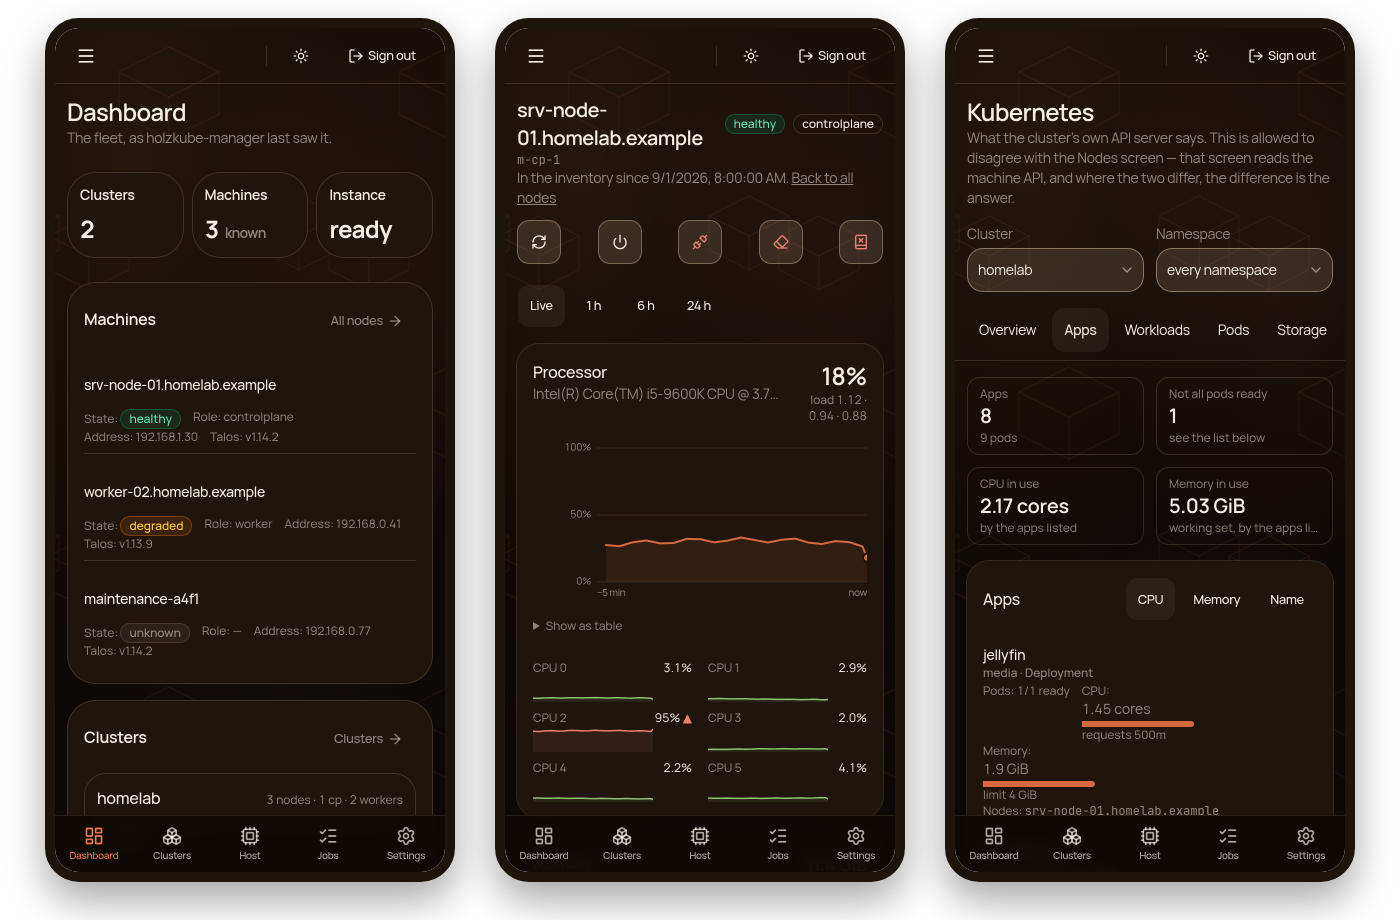
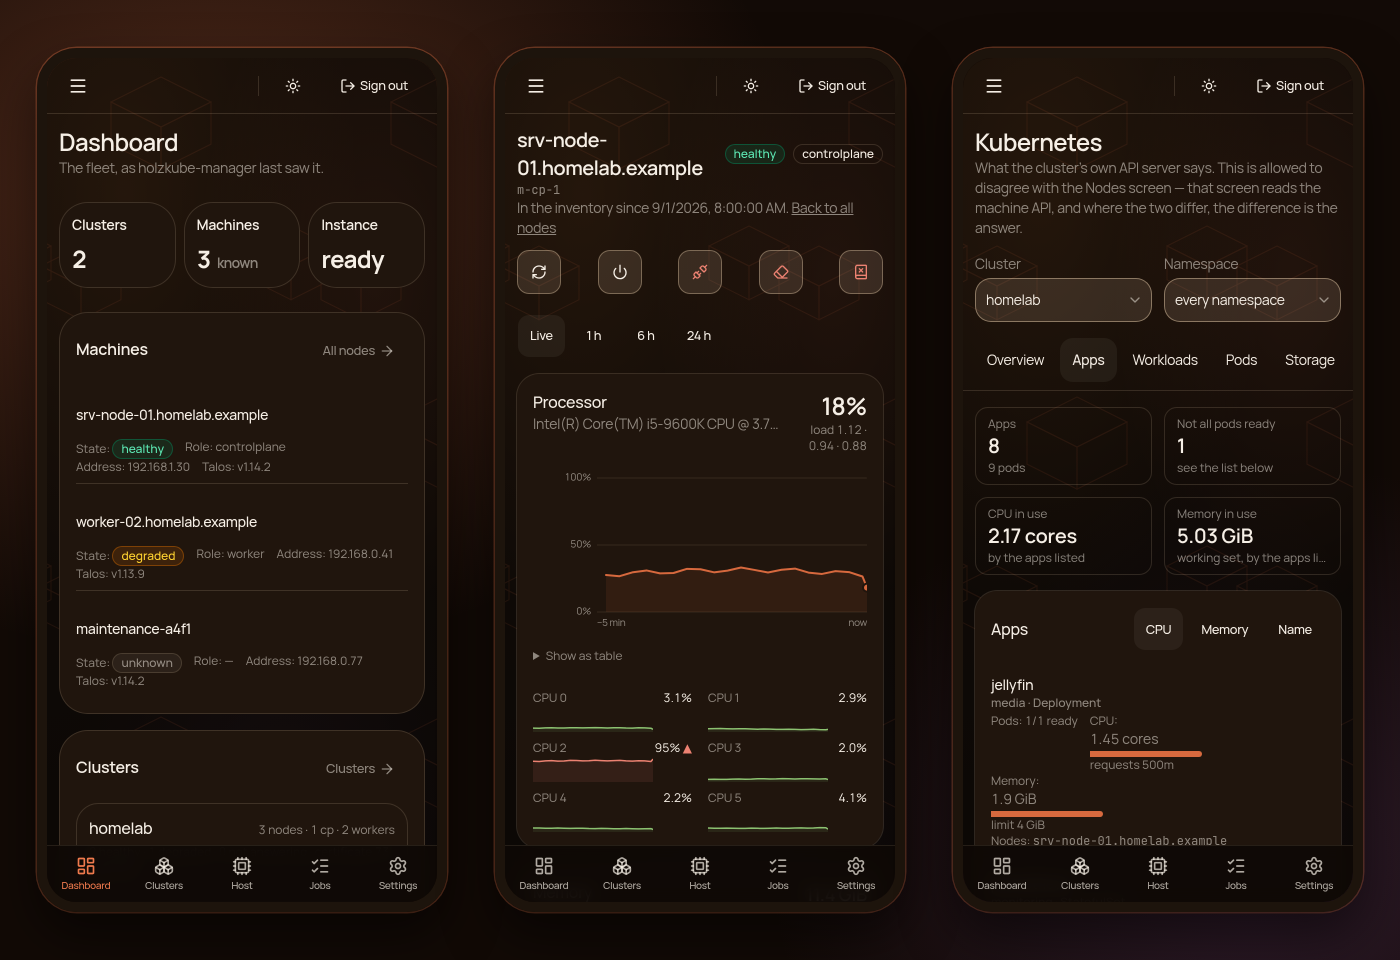
README: a showcase picture, fewer and better screenshots, a phone strip on the brand ground
The look-around keeps what matters: the dashboard on a desk and on a phone, a
node, the clusters, the wall, and the phone strip. The apps, app-detail,
kubernetes and host pictures are gone from README and script; their screens are
still described in the feature list and the guide.

Claude-Session: https://claude.ai/code/session_01NtRnCYXbriV4BjszEhUnec

diff --git a/README.md b/README.md
@@ -83,55 +83,33 @@ did.
 
 ## A look around
 
-**The 2026 shell.** On a desk or a tablet the navigation is an icon rail —
-Dashboard, Clusters, Host, Jobs, Settings — with every area as a labelled
-column beside it; on a phone those five are the bottom tab bar and the rest
-sit behind the menu. The dashboard shows the fleet as cards with one big
-number each: the clusters, the machines (and how many are down), and the
-instance's own state including the audit chain.
+![The dashboard on a desk and on a phone](docs/screenshots/showcase.png)
 
-![The dashboard: the fleet as cards](docs/screenshots/dashboard.png)
-
-**Apps.** What is installed on the cluster, heaviest first, and the detail of
-one: its pods, where they run, and what it used over the day.
-
-![Every app with its CPU and memory now](docs/screenshots/apps.png)
-
-![One app over the last 24 hours](docs/screenshots/app-detail.png)
+**Dashboard.** The fleet at a glance: the clusters, the machines and how many
+are down, and the instance's own state including the audit chain, with the
+machines, the clusters and the latest audit records laid out below. On a desk
+the full navigation stands beside it; on a tablet it folds to an icon rail.
 
 **Clusters.** Each cluster with its nodes, their condition and its
 certificate, and everything you do to a cluster in one place.
 
 ![Clusters](docs/screenshots/clusters.png)
 
-**Kubernetes.** What the cluster's own API server says — which is allowed to
-disagree with the machine API, and where the two differ, the difference is the
-answer.
+**One node.** Its processor, memory, disks and temperatures, live and over the
+last day, with the node's actions in the header.
 
-![How full the cluster is, per node](docs/screenshots/kubernetes.png)
+![One node, with its hardware over the last 24 hours](docs/screenshots/node-hardware.png)
 
-**The wall.** Every node and workload as a tile — the machine holzkube-manager
-runs on first among them — how full the cluster is and the latest warnings. It never scrolls, and it always says how old its answer is.
+**The wall.** Every node and workload as a tile -- the machine holzkube-manager
+runs on first among them -- how full the cluster is and the latest warnings. It
+never scrolls, and it always says how old its answer is.
 
 ![The wall](docs/screenshots/wall.png)
 
-**Host.** The machine holzkube-manager itself runs on: what it is, the service
-and its last update check, and how it is doing right now. A value the service's
-hardening hides says so, and says which line shows it, instead of reading 0.
-Here the processor has run past its warning line: the notice says which value
-crossed which threshold, and the day's curves show it climbing — with a gap
-where the service was stopped, not a line drawn across it. The five host
-actions sit in the header — the first only looks for a newer release and
-installs nothing — switched off here: the helper that carries them out is not
-installed yet, and the notice below the hardening note names what is missing
-and the commands that install it.
+**On a phone.** The five main areas are a tab bar under your thumb, the rest is
+behind the menu, and every control is at least 44px: the build fails otherwise.
 
-![The machine holzkube-manager runs on](docs/screenshots/host.png)
-
-**On a phone.** Every screen, one-handed, and the menus and dialogs behind its
-main actions: the build fails when a control on any of them is under 44px.
-
-![Three screens on a phone](docs/screenshots/phone.png)
+![The dashboard, a node and Kubernetes on a phone](docs/screenshots/phone.png)
 
 ## Quick start
 
